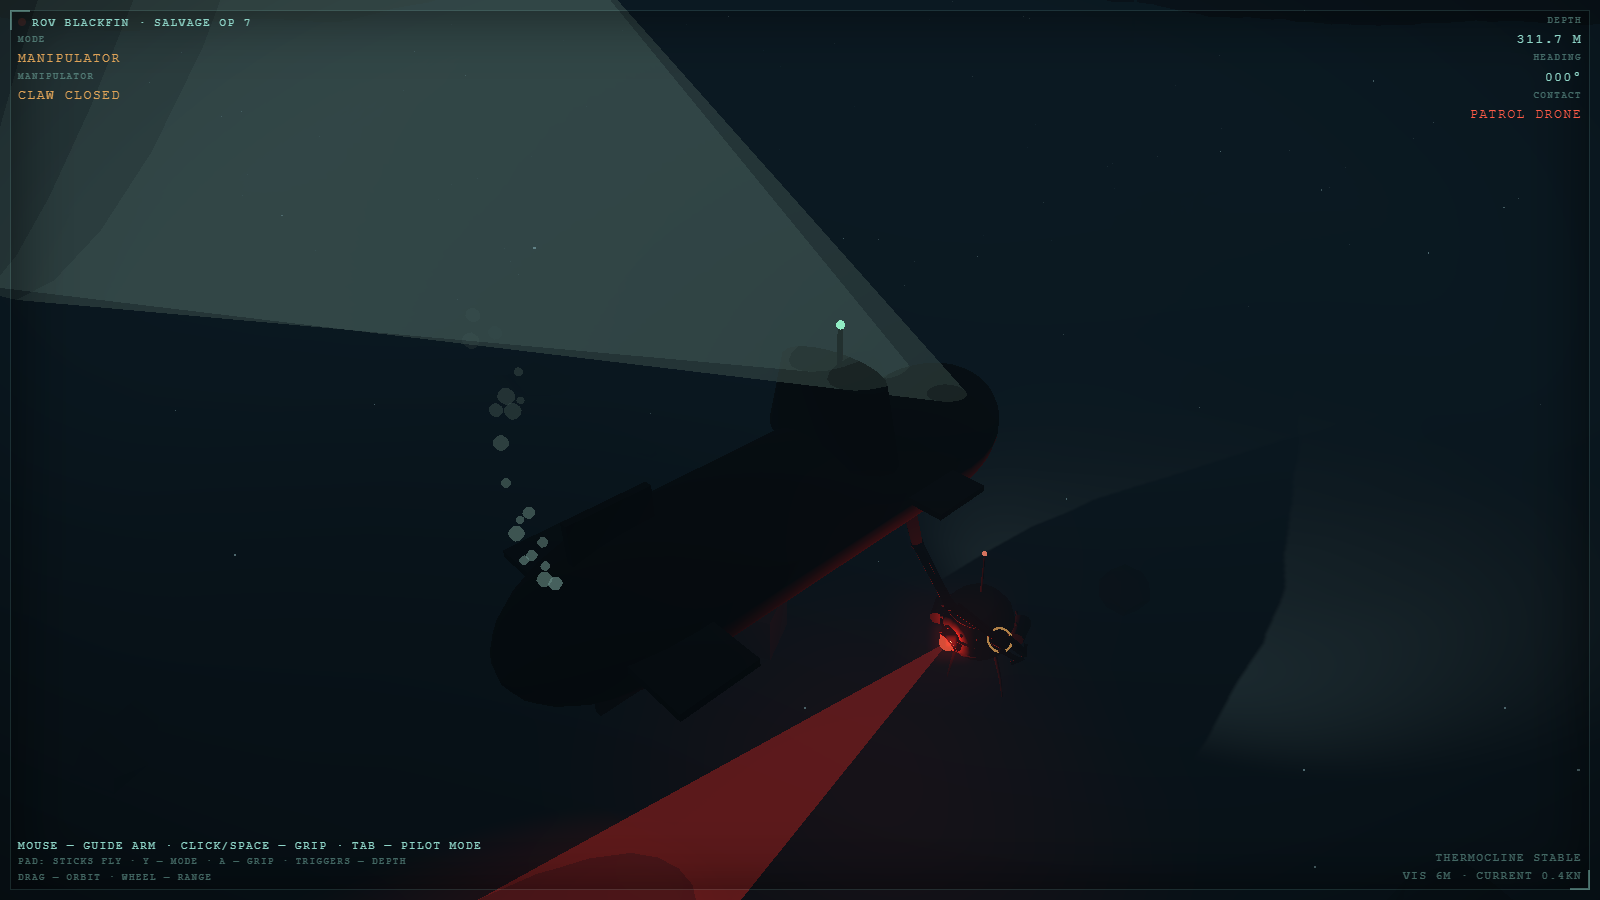
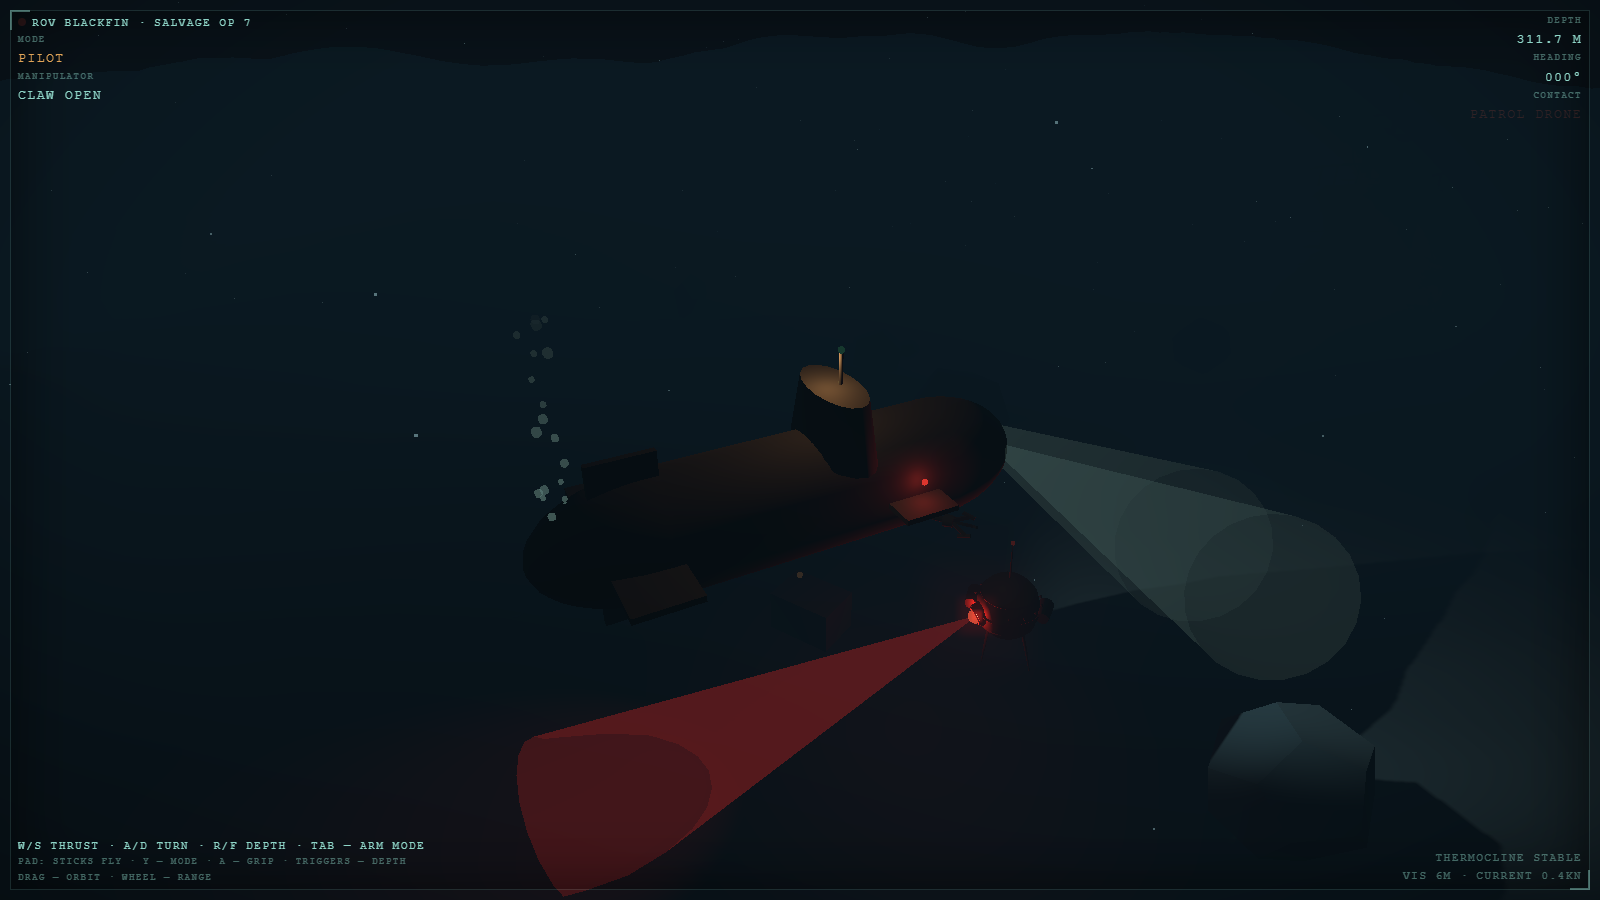
Fix floodlight cone flip; warm hull self-lighting
- The reference's beam-cone quaternion mapped the axis onto the negated
  direction — cones rendered 180° flipped (up/backward). Now: apex at
  the lamp, opening along the actual beam direction.
- Amber wash light above the sail + port (red) / starboard (green)
  running lamps so the hull reads as a 3D machine, not a silhouette.

diff --git a/src/sub.ts b/src/sub.ts
@@ -174,15 +174,42 @@ function floodlight(y: number, z: number): void {
       side: THREE.DoubleSide,
     }),
   );
-  cone.position.copy(lamp.position);
+  // apex at the lamp, opening forward-down along the beam direction.
+  // (The reference negated the direction here, which flipped the visible
+  // cone 180° — up and backward. Cone axis tip->base is local -Y, so map
+  // -Y onto dir and push the center half a length along the beam.)
   const dir = new THREE.Vector3().subVectors(tgt.position, lamp.position).normalize();
-  cone.quaternion.setFromUnitVectors(new THREE.Vector3(0, -1, 0), dir.clone().negate());
-  cone.translateY(-4.5);
+  cone.quaternion.setFromUnitVectors(new THREE.Vector3(0, -1, 0), dir);
+  cone.position.copy(lamp.position).addScaledVector(dir, 4.5);
   hullGroup.add(cone);
   beams.push(cone);
 }
 floodlight(0.35, 0.45);
 floodlight(0.35, -0.45);
+
+// warm hull self-lighting: a soft amber wash from above the sail plus
+// port/starboard running lamps, so the hull reads as a 3D machine instead
+// of a flat silhouette. Kept dim — the dark is still the point.
+{
+  const hullWarm = new THREE.PointLight(0xffb066, 6, 9, 1.8);
+  hullWarm.position.set(0.4, 1.9, 0);
+  hullGroup.add(hullWarm);
+
+  for (const [z, color] of [
+    [0.98, 0xff3b2e], // port (red)
+    [-0.98, 0x2eff7d], // starboard (green)
+  ] as const) {
+    const lampMesh = new THREE.Mesh(
+      new THREE.SphereGeometry(0.045, 8, 8),
+      new THREE.MeshBasicMaterial({ color }),
+    );
+    lampMesh.position.set(1.35, 0.32, z);
+    hullGroup.add(lampMesh);
+    const glow = new THREE.PointLight(color, 1.6, 2.6, 1.8);
+    glow.position.copy(lampMesh.position);
+    hullGroup.add(glow);
+  }
+}
 
 // arm mount under the bow
 const mount = new THREE.Object3D();